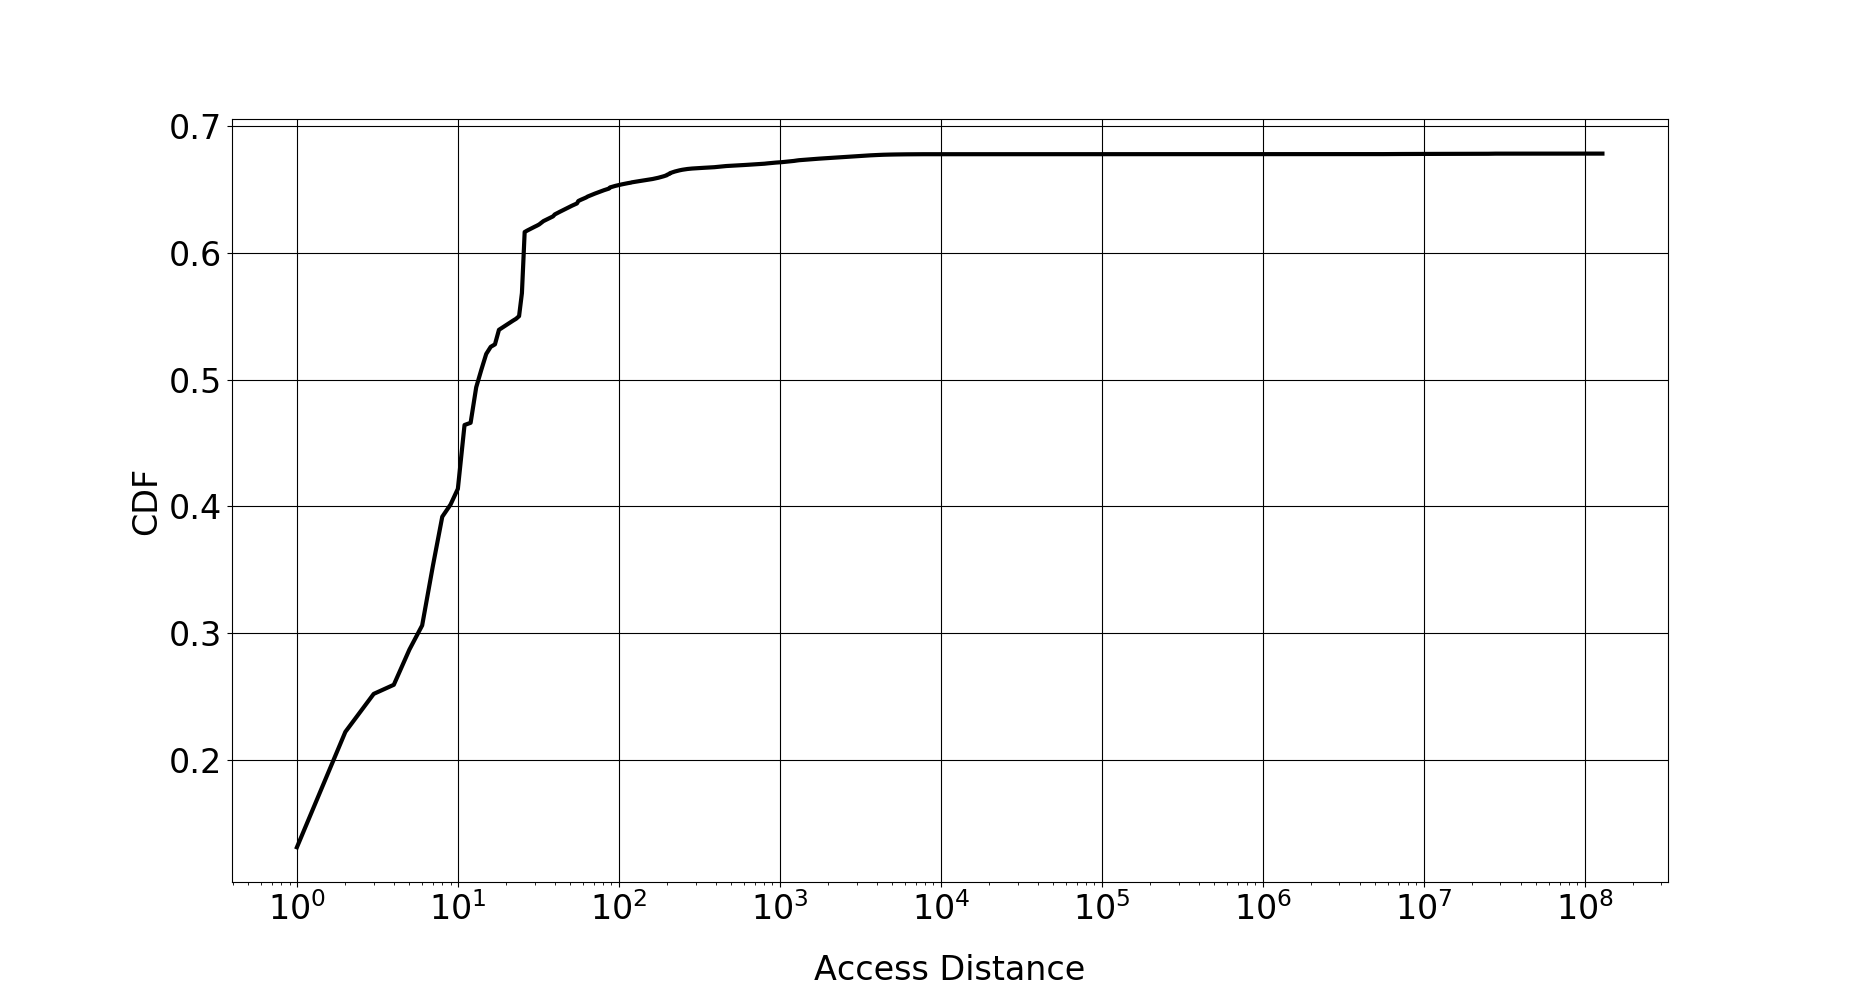
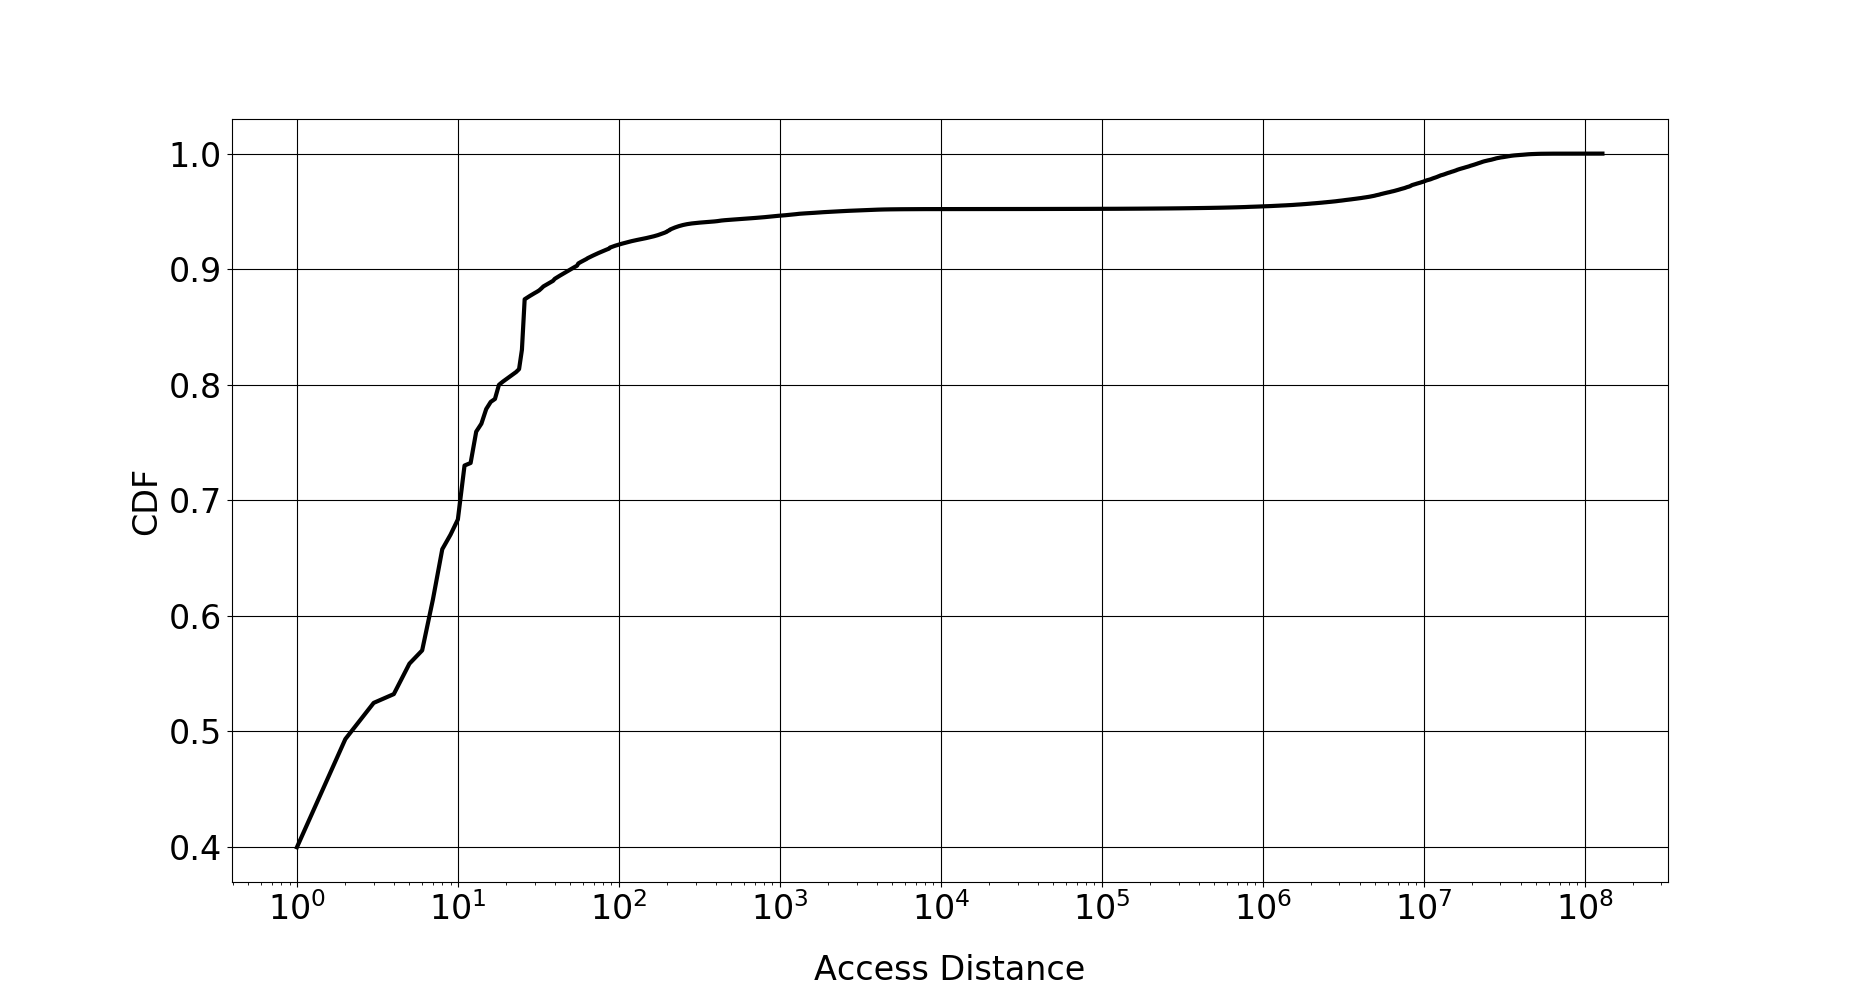
modified part2 code, CDF computes correctly now

diff --git a/part2.cpp b/part2.cpp
@@ -9,94 +9,55 @@
 
 using namespace std;
 
-uint32_t BlockOffset = 6;
+uint64_t BlockOffset = 6;
 
 class AccessDistance
 {
-    int N, num_accesses;
-    bool AccDistPerBlock;
-    unordered_map <uint64_t, vector<int>> accessDist;
-    unordered_map <uint64_t, int> lastAccess;
-    map <int, float> cdf;
-    vector<int> dValues;
-    vector<float> fValues;
+    uint64_t num_accesses;
+    uint64_t numReusedBlocks;
+    map <uint64_t, uint64_t> lastAccess;
+    map <uint64_t, uint64_t> cdf;
 
     public:
     AccessDistance()
     {
-        N = 0, num_accesses = 0;
-        AccDistPerBlock = false;
+        num_accesses = 0;
+        numReusedBlocks = 0;
     }
 
     void updateAccessDist(uint64_t addr)
     {
+        num_accesses++;
         uint64_t blockAddress = (addr >> BlockOffset);
         if(lastAccess.find(blockAddress) == lastAccess.end())
         {
-            lastAccess.insert(pair<uint64_t, int> (blockAddress, num_accesses));
+            lastAccess.insert(pair<uint64_t, uint64_t> (blockAddress, num_accesses));
         }
         else
         {
-            int accessDistanceVal = num_accesses - lastAccess[blockAddress];
+            numReusedBlocks++;
+            uint64_t accessDistanceVal = num_accesses - lastAccess[blockAddress];
             if(cdf.find(accessDistanceVal) == cdf.end())
             {
-                cdf.insert(pair<int, float> (accessDistanceVal, 1));
+                cdf.insert(pair<uint64_t, uint64_t> (accessDistanceVal, 1));
             }
             else
             {
                 cdf[accessDistanceVal] += 1;
             }
-            if (AccDistPerBlock)
-            {
-                if(accessDist.find(blockAddress) == accessDist.end())
-                {
-                    accessDist.insert(pair<uint64_t, vector<int>> (blockAddress, {accessDistanceVal}));
-                }
-                else
-                {
-                    accessDist[blockAddress].push_back(accessDistanceVal);
-                }
-            }
             lastAccess[blockAddress] = num_accesses;
-            N++;
-        }
-        num_accesses++;
-    }
-
-    void updateCDF()
-    {
-        float prev = 0;
-        map<int, float>::iterator itr;
-        for(itr = cdf.begin(); itr != cdf.end(); itr++)
-        {
-            itr->second = (prev*N + itr->second)/N;
-            prev = itr->second;
-            dValues.push_back(itr->first);
-            fValues.push_back(itr->second);
         }
     }
 
-    void printdValues()
+    void computeCDF(ofstream &OutputWriter)
     {
-        for(auto i = dValues.begin(); i != dValues.end(); i++)
+        uint64_t sum = 0;
+        long double cdfVal;
+        for(auto itr = cdf.begin(); itr != cdf.end(); itr++)
         {
-            cout << *i << " ";
-        }
-        cout << endl;
-    }
-    void printfValues()
-    {
-        for(auto i = fValues.begin(); i != fValues.end(); i++)
-        {
-            cout << *i << " ";
-        }
-        cout << endl;
-    }
-
-    void printCDFvalues(ofstream &OutputWriter)
-    {
-        for (unsigned long i = 0; i < fValues.size(); i++){
-            OutputWriter << dValues[i] << ", " << fValues[i] << endl;
+            sum += itr->second;
+            cdfVal = (long double)sum/(long double)numReusedBlocks;
+            OutputWriter << itr->first << ", " << cdfVal << endl;
         }
     }
 
@@ -133,6 +94,7 @@ int main(int argc, char* argv[])
         uint64_t addr = stoull(line.substr(line.find("0x"), string::npos), NULL, 16);
         accessDistance.updateAccessDist(addr);
     }
-    accessDistance.updateCDF();
-    accessDistance.printCDFvalues(CDFfile);
+    accessDistance.computeCDF(CDFfile);
+
+    return 0;
 }
